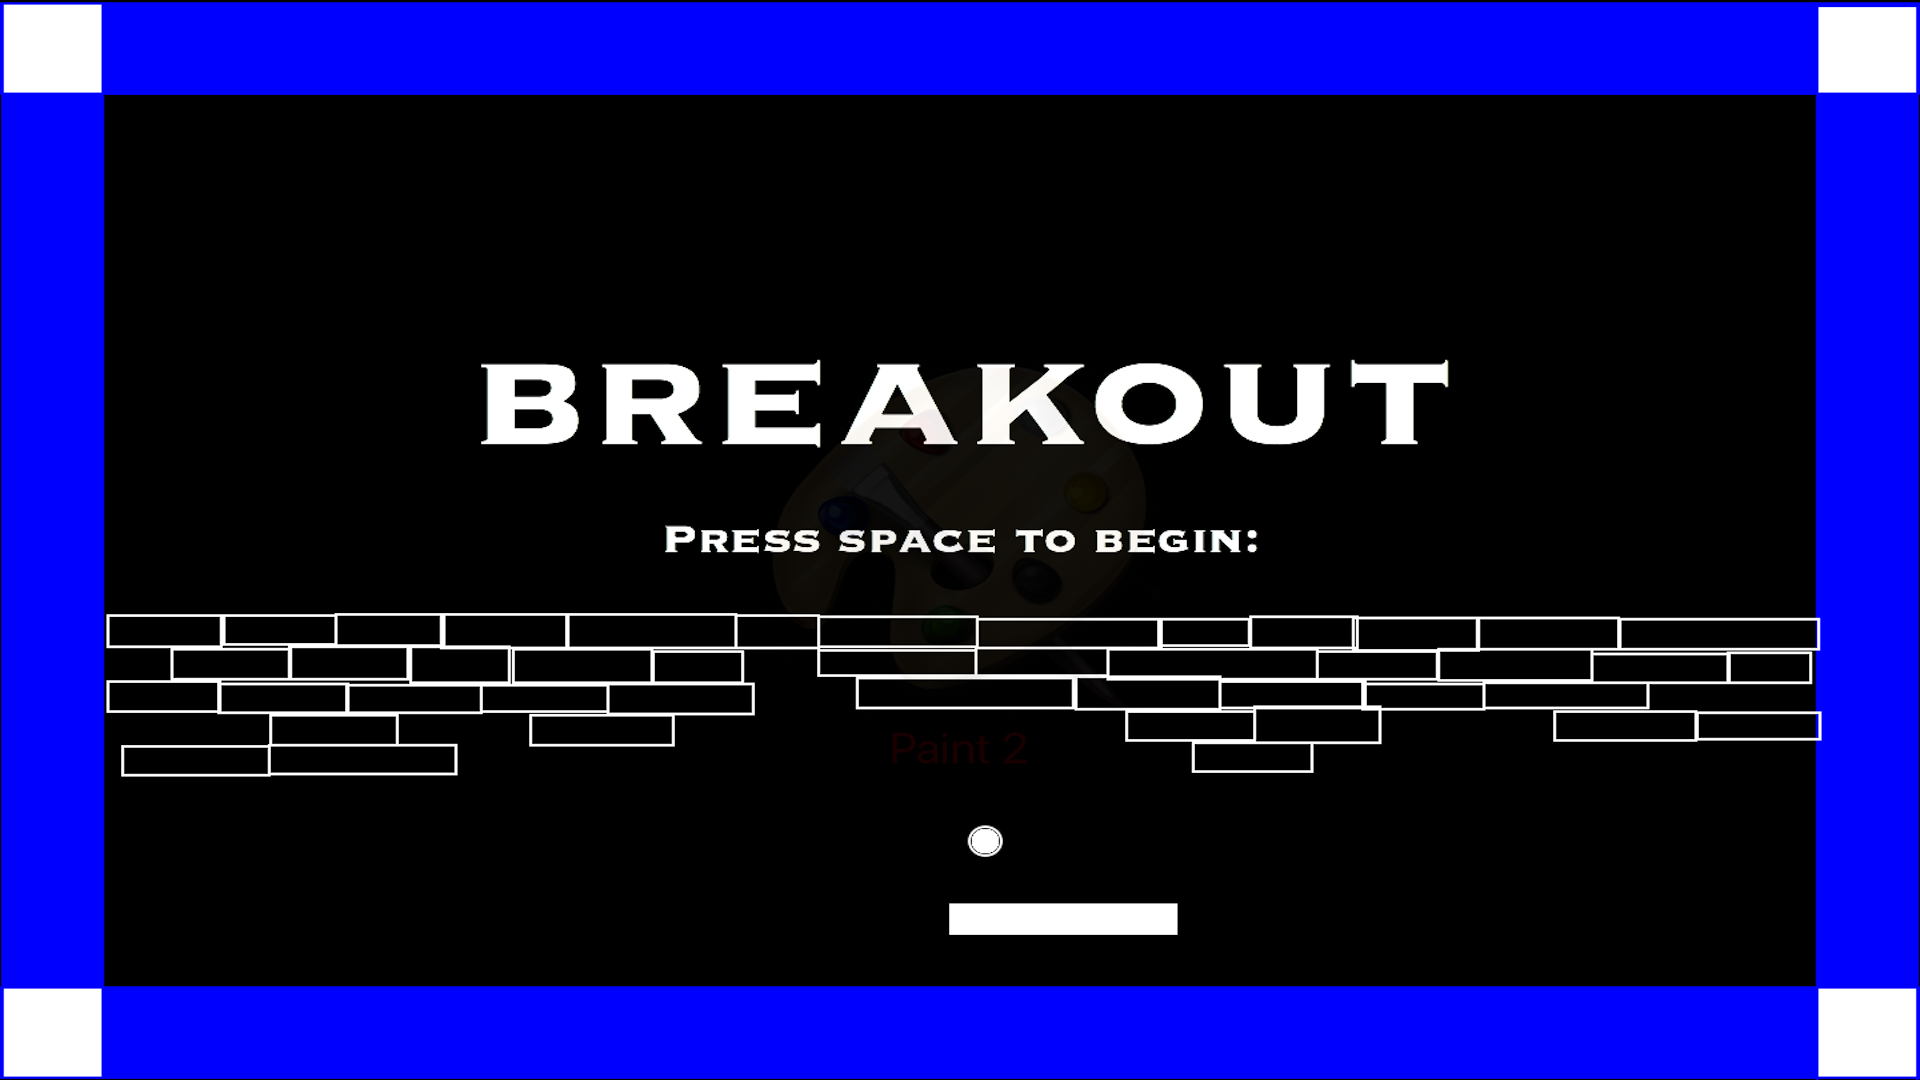
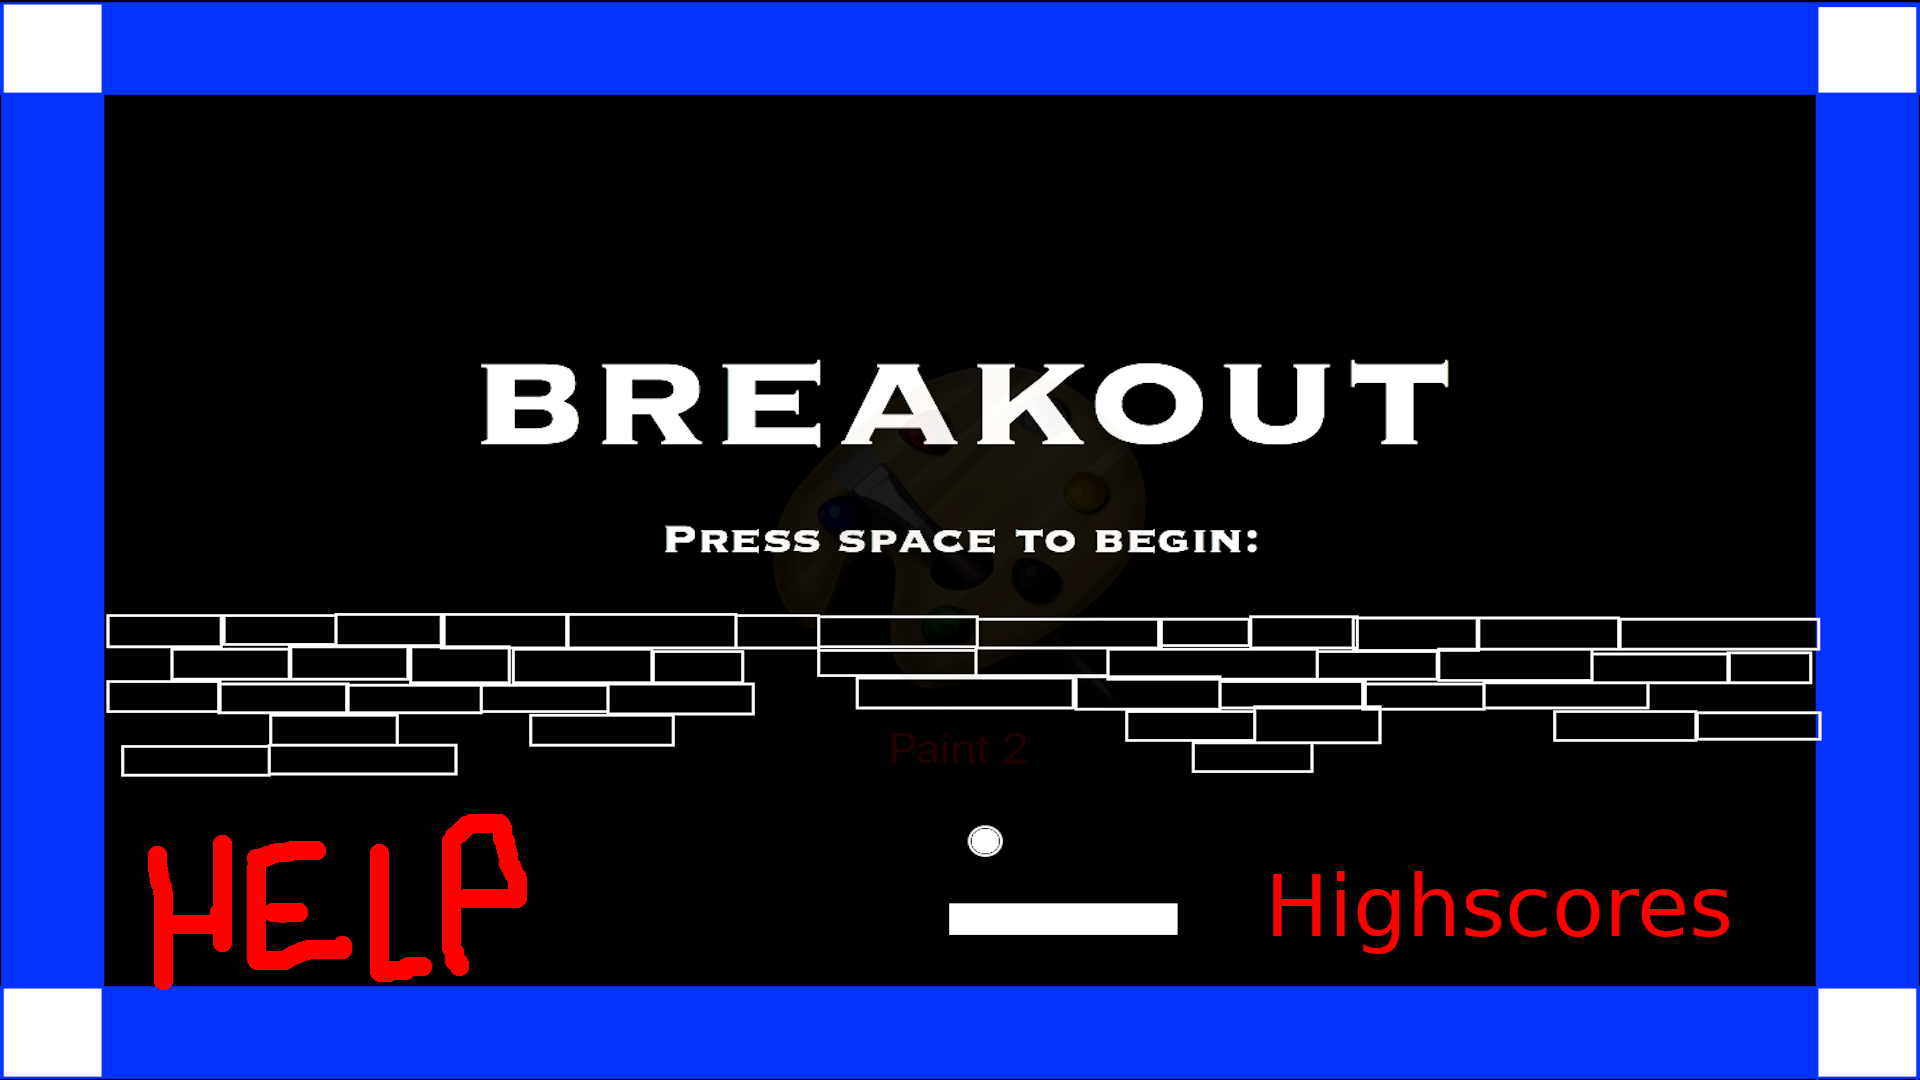
working on instructions screen

Changed region(s): [[0.0, 0.0, 1.0, 1.0]]

diff --git a/C200-Breakout-Team12/screens/MainMenuScreen.py b/C200-Breakout-Team12/screens/MainMenuScreen.py
@@ -5,7 +5,7 @@ import pygame
 import Graphics
 import ScreenManager
 from Assets import Assets
-from GameConstants import GC_KEY_BEGIN
+from GameConstants import *
 from screens.NewGameLoaderScreen import NewGameLoaderScreen
 from screens.Screen import Screen
 
@@ -15,7 +15,14 @@ class MainMenuScreen(Screen):
 
 	def update(self):
 		super().update()
-		pygame.event.clear()  # polling for keypress instead of getting keydown event, so pump event queue
+		# pygame.event.clear()  # polling for keypress instead of getting keydown event, so pump event queue
+		for e in pygame.event.get():
+			if e.type == pygame.MOUSEBUTTONDOWN:
+				if e.pos[0] <= GC_WORLD_WIDTH // 2 and e.pos[1] >= GC_WORLD_HEIGHT // 2:
+					# pressed lower left quarter of screen
+					# import here to avoid import loop
+					from screens.InstructionsScreen import InstructionsScreen
+					ScreenManager.setScreen(InstructionsScreen())
 
 		Graphics.clear(Assets.I_BLUR)
 		Graphics.surface.blit(Assets.I_MAINMENU_BACKGROUND, (0, 0))

diff --git a/C200-Breakout-Team12/screens/InstructionsScreen.py b/C200-Breakout-Team12/screens/InstructionsScreen.py
@@ -1,0 +1,19 @@
+import pygame
+
+import Graphics
+import ScreenManager
+from Assets import Assets
+from screens.Screen import Screen
+
+
+class InstructionsScreen(Screen):
+	def update(self):
+		Graphics.clear(Assets.I_BLUR)
+		Graphics.surface.blit(Assets.I_INSTRUCTIONS_BACKGROUND, (0, 0))
+		Graphics.flip()
+
+		pygame.event.clear()
+		if pygame.key.get_pressed()[pygame.K_ESCAPE]:
+			# import here to avoid import loop
+			from screens.MainMenuScreen import MainMenuScreen
+			ScreenManager.setScreen(MainMenuScreen())

diff --git a/C200-Breakout-Team12/Assets.py b/C200-Breakout-Team12/Assets.py
@@ -21,6 +21,7 @@ class Assets:
 	###   SCREEN BACKGROUNDS   ################################################
 	I_MAINMENU_BACKGROUND: Surface = li("mainMenu/background")
 	I_BETWEEN_LEVELS_BACKGROUND: Surface = li("betweenLevels/background")
+	I_INSTRUCTIONS_BACKGROUND: Surface = li("loading/background")
 
 	###   GAME SCREEN   #######################################################
 	I_BALL: Surface = li("game/ball")
